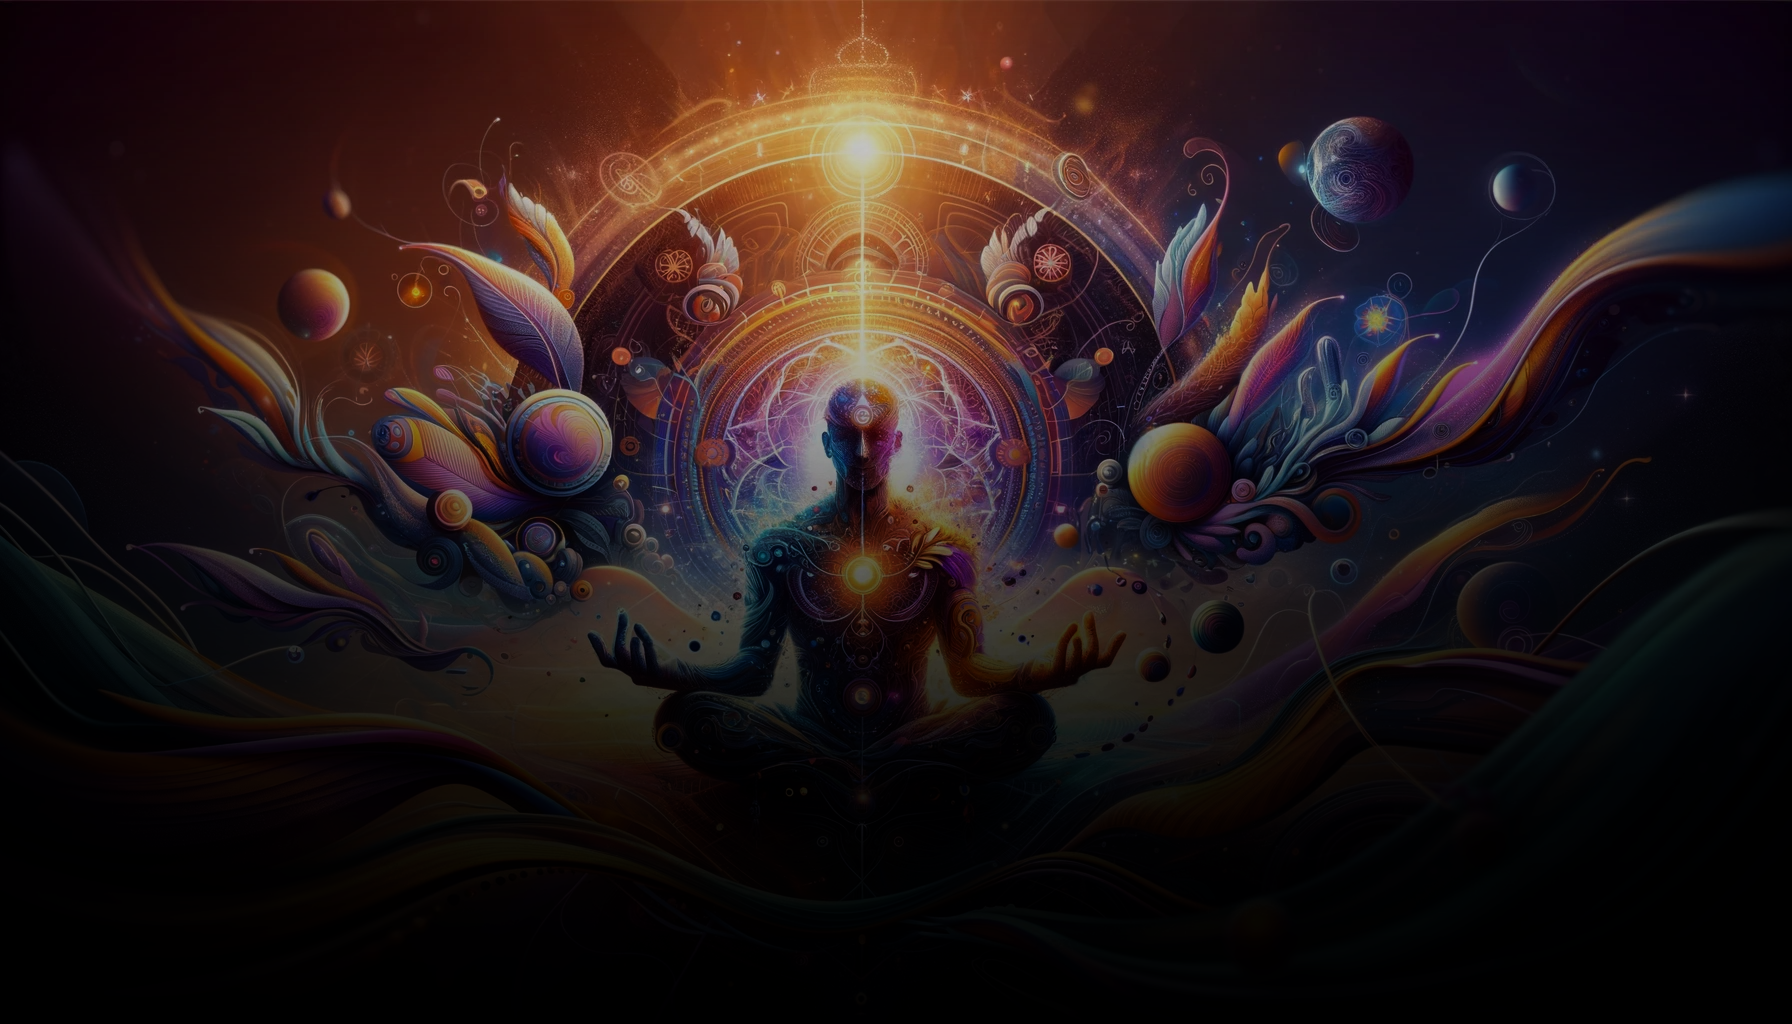
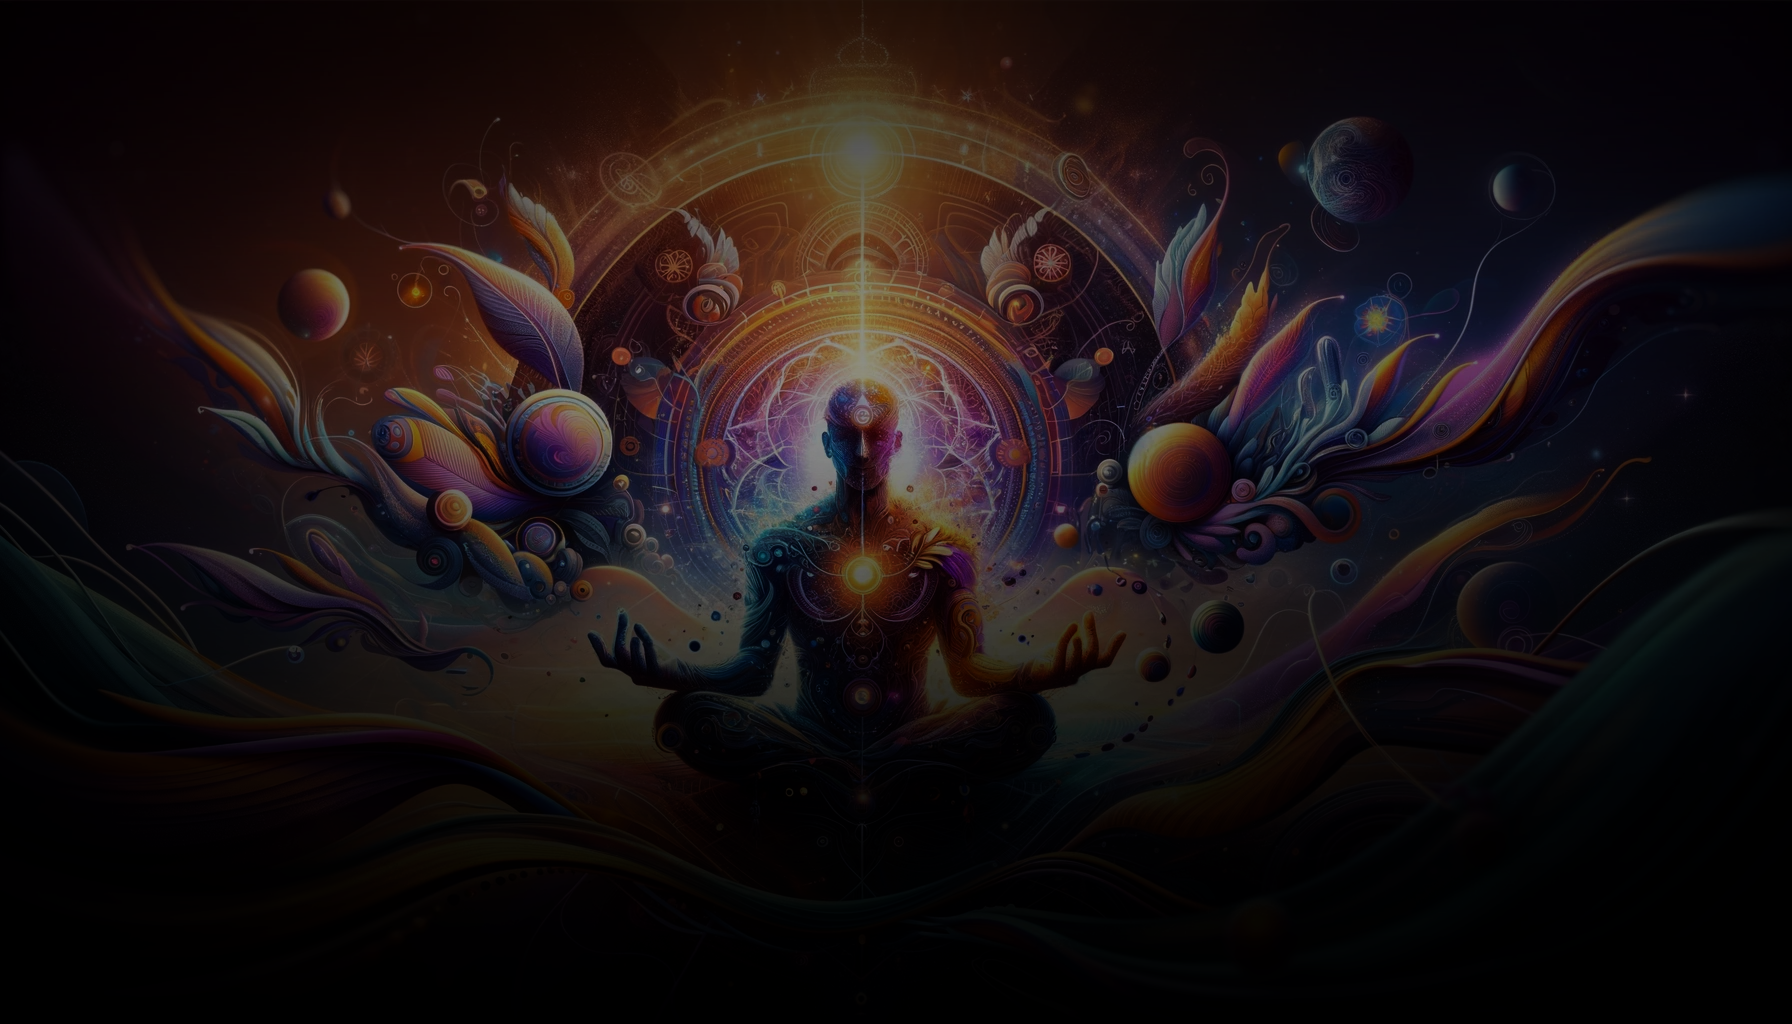
modify

diff --git a/src/components/thevible/TheVible.jsx b/src/components/thevible/TheVible.jsx
@@ -3,9 +3,6 @@ import "aos/dist/aos.css"; // AOS styles
 import React, { useEffect } from "react";
 import cptrImg from "../../assets/images/bg1.png";
 import cptImg from "../../assets/images/bg2.png";
-import bitcoin from "../../assets/images/bitcoin.png";
-import mastercard from "../../assets/images/mastercard.png";
-import visa from "../../assets/images/visa.png";
 import Container from "../Container";
 
 const TheVible = () => {
@@ -22,7 +19,7 @@ const TheVible = () => {
           data-aos="fade-up"
           data-aos-duration="1000"
         >
-          <h2 className="text-3xl font-bold mb-4">The Vible</h2>
+          <h2 className="text-5xl font-bold mb-4 text-gradient">The Vible</h2>
           <p className="text-lg">
             The Vible is a collection of chapters that are written by the
             community. Each chapter is written by a different person and is
@@ -46,10 +43,16 @@ const TheVible = () => {
               Faith and Vibes
             </h3>
             <img src={cptrImg} alt="Chapter 1" className="w-full h-auto mt-2" />
-            <p className="text-md mt-2 text-slate-400 text-center">
-              The Vible is a collection of chapters that are written by the
-              community. Each chapter is written by a different person and is
-              about a different topic.
+            <p className="text-md mt-2 text-slate-400 text-left">
+              Embark on a soulful journey with "Faith and Vibes," the inaugural
+              chapter of The Vible. Authored by a passionate member of our
+              community, this chapter explores the intricate dance between faith
+              and the subtle vibrations of life. The author weaves a tapestry of
+              experiences, illustrating how faith can harmonize with the
+              ever-changing rhythms of existence. Through a blend of personal
+              anecdotes and universal themes, readers are invited to contemplate
+              the profound connection between belief systems and the energies
+              that shape our realities.
             </p>
           </div>
 
@@ -59,33 +62,36 @@ const TheVible = () => {
               Pragmatic Faith
             </h3>
             <img src={cptImg} alt="Chapter 2" className="w-full h-auto mt-2" />
-            <p className="text-md mt-2 text-slate-400 text-center">
+            <p className="text-md mt-2 text-slate-400 text-left">
               The Vible is a collection of chapters that are written by the
               community. Each chapter is written by a different person and is
-              about a different topic.
+              about a different topic. In this chapter, "Pragmatic Faith," the
+              author explores the intersection of practicality and faith,
+              delving into how individuals can apply their beliefs in a
+              pragmatic way to navigate life's challenges and uncertainties. The
+              narrative unfolds with thought-provoking insights and real-world
+              examples, inviting readers to reflect on the role of faith in
+              their own pragmatic journeys.
             </p>
           </div>
         </div>
 
         {/* Interactive Elements */}
-        <div
+        {/* <div
           className="flex flex-wrap justify-center items-center p-6"
           data-aos="fade-up"
           data-aos-duration="1000"
         >
           <div className="m-4">
             <img src={bitcoin} alt="Organization 1" className="w-30 h-10" />
-            {/* Add interactive elements or links */}
           </div>
           <div className="m-4">
             <img src={mastercard} alt="Organization 1" className="w-30 h-10" />
-            {/* Add interactive elements or links */}
           </div>
           <div className="m-4">
             <img src={visa} alt="Organization 1" className="w-30 h-10" />
-            {/* Add interactive elements or links */}
           </div>
-        </div>
+        </div> */}
       </Container>
     </div>
   );

diff --git a/src/components/home/HomePage.jsx b/src/components/home/HomePage.jsx
@@ -1,19 +1,18 @@
-import React, { useState } from "react";
+import React from "react";
 import bgImage from "../../assets/images/bg.png";
 import bannerImg from "../../assets/images/text logo.png";
 const HomePage = () => {
-  const [isHovered, setIsHovered] = useState(false);
-
-  const normalStyle = {};
-
-  const hoverStyle = {
-    boxShadow:
-      "0 0 5px cyan, 0 0 25px cyan, 0 0 50px cyan, 0 0 100px cyan, 0 0 200px cyan",
-  };
+  // const [isHovered, setIsHovered] = useState(false);
+  // const normalStyle = {};
+  // const hoverStyle = {
+  //   boxShadow:
+  //     "0 0 5px cyan, 0 0 25px cyan, 0 0 50px cyan, 0 0 100px cyan, 0 0 200px cyan",
+  // };
   return (
-    <div className="flex flex-col overflow-x-hidden">
+    <div className="relative h-screen flex flex-col overflow-hidden">
       {/* Hero Section */}
       <div
+        id="home"
         className="flex items-center justify-center h-screen z-[-1]"
         style={{
           backgroundImage: `url(${bgImage})`,
@@ -22,7 +21,7 @@ const HomePage = () => {
         }}
       >
         {/* Black Shadow Overlay */}
-        <div className="absolute top-0 left-0 right-0 bottom-0 bg-black bg-opacity-50 opacity-75 inset-0 "></div>
+        {/* <div className="absolute top-0 left-0 right-0 bottom-0 bg-black bg-opacity-50 opacity-75 inset-0 "></div> */}
         <img
           className="absolute w-30 h-30 z-100"
           // style={isHovered ? hoverStyle : normalStyle}

diff --git a/src/components/nabvar/NavBar.jsx b/src/components/nabvar/NavBar.jsx
@@ -17,7 +17,7 @@ const NavBar = () => {
       }}
     >
       <Container>
-        <nav className="flex items-center justify-between bg-gray p-6 backdrop-blur-sm">
+        <nav className="flex items-center justify-between bg-transparent p-6 ">
           <div className="sm:hidden">
             <button
               onClick={() => setIsOpen(!isOpen)}
@@ -33,7 +33,7 @@ const NavBar = () => {
             } sm:block flex-grow  sm:items-center sm:w-auto`}
           >
             <a
-              href="/"
+              href="#home"
               className="block mt-4 sm:inline-block sm:mt-0 text-white hover:text-gray-50 mr-4"
             >
               Home
@@ -59,13 +59,13 @@ const NavBar = () => {
           >
             <a
               href="#login"
-              className="block mt-4 sm:inline-block sm:mt-0 text-white hover:text-white mr-4"
+              className="block mt-4 sm:inline-block sm:mt-0 text-white hover:text-white mr-4 text-gradient"
             >
               Login
             </a>
             <a
               href="#signup"
-              className="block mt-4 sm:inline-block sm:mt-0 text-white hover:text-white"
+              className="block mt-4 sm:inline-block sm:mt-0 text-white hover:text-white text-gradient"
             >
               Sign Up
             </a>

diff --git a/src/components/aboutvibeican/AboutVibeican.jsx b/src/components/aboutvibeican/AboutVibeican.jsx
@@ -3,7 +3,6 @@ import "aos/dist/aos.css"; // AOS styles
 import React, { useEffect } from "react";
 import historyImage from "../../assets/images/1.webp";
 import missionImage from "../../assets/images/2.webp";
-import { default as teamMemberPhoto } from "../../assets/images/text.png";
 import Container from "../Container";
 
 const AboutVibeican = () => {
@@ -81,7 +80,7 @@ const AboutVibeican = () => {
           </div>
 
           {/* The Team */}
-          <div className="text-center my-8" data-aos="zoom-in">
+          {/* <div className="text-center my-8" data-aos="zoom-in">
             <h2 className="text-3xl font-bold mb-4">The Team</h2>
             <div className="flex flex-wrap justify-center">
               <div className="m-4 bg-white bg-opacity-100 backdrop-filter backdrop-blur-lg p-4 rounded-lg shadow-lg hover:shadow-2xl transition-shadow duration-300">
@@ -117,9 +116,9 @@ const AboutVibeican = () => {
                 </h3>
                 <p className="text-slate-900">CTO</p>
               </div>
-              {/* Repeat for more team members */}
+              
             </div>
-          </div>
+          </div> */}
         </div>
       </Container>
     </div>

diff --git a/src/components/newsletter/NewsletterAndArticles.jsx b/src/components/newsletter/NewsletterAndArticles.jsx
@@ -20,7 +20,7 @@ const NewsletterAndArticles = () => {
     <div className="bg-black text-white py-8">
       {/* Newsletter Subscription */}
       <div className="container mx-auto px-4 text-center" data-aos="fade-up">
-        <h2 className="text-3xl font-bold mb-4">Stay Updated</h2>
+        <h2 className="text-3xl font-bold mb-4 text-gradient">Stay Updated</h2>
         <p className="mb-4">
           Subscribe to our newsletter for regular updates and insights.
         </p>
@@ -45,7 +45,7 @@ const NewsletterAndArticles = () => {
           data-aos="fade-up"
           data-aos-delay="200"
         >
-          <h2 className="text-2xl text-slate-200 font-bold text-center mb-6">
+          <h2 className="text-2xl text-slate-200 font-bold text-center mb-6 ">
             Featured Articles
           </h2>
           <div className="grid md:grid-cols-2 lg:grid-cols-3 gap-6">

diff --git a/src/components/faithandtech/FaithAndTechnology.jsx b/src/components/faithandtech/FaithAndTechnology.jsx
@@ -17,7 +17,7 @@ const FaithAndTechnology = () => {
         <div className="container mx-auto px-4 py-8">
           {/* Articles on AI and Faith */}
           <div className="text-center my-8" data-aos="fade-up">
-            <h2 className="text-3xl font-bold mb-4">
+            <h2 className="text-3xl font-bold mb-4 text-gradient">
               Articles on AI and Faith
             </h2>
             <p className="text-xs sm:text-sm lg:text-lg">

diff --git a/src/index.css b/src/index.css
@@ -2,3 +2,22 @@
 @tailwind base;
 @tailwind components;
 @tailwind utilities;
+
+/* animated text color gradient effect*/
+@keyframes gradientText {
+    0% {
+        color: #e96e0f;
+    }
+
+    50% {
+        color: #8a0063;
+    }
+
+    100% {
+        color: #182e44;
+    }
+}
+
+.text-gradient {
+    animation: gradientText 3s infinite alternate;
+}
